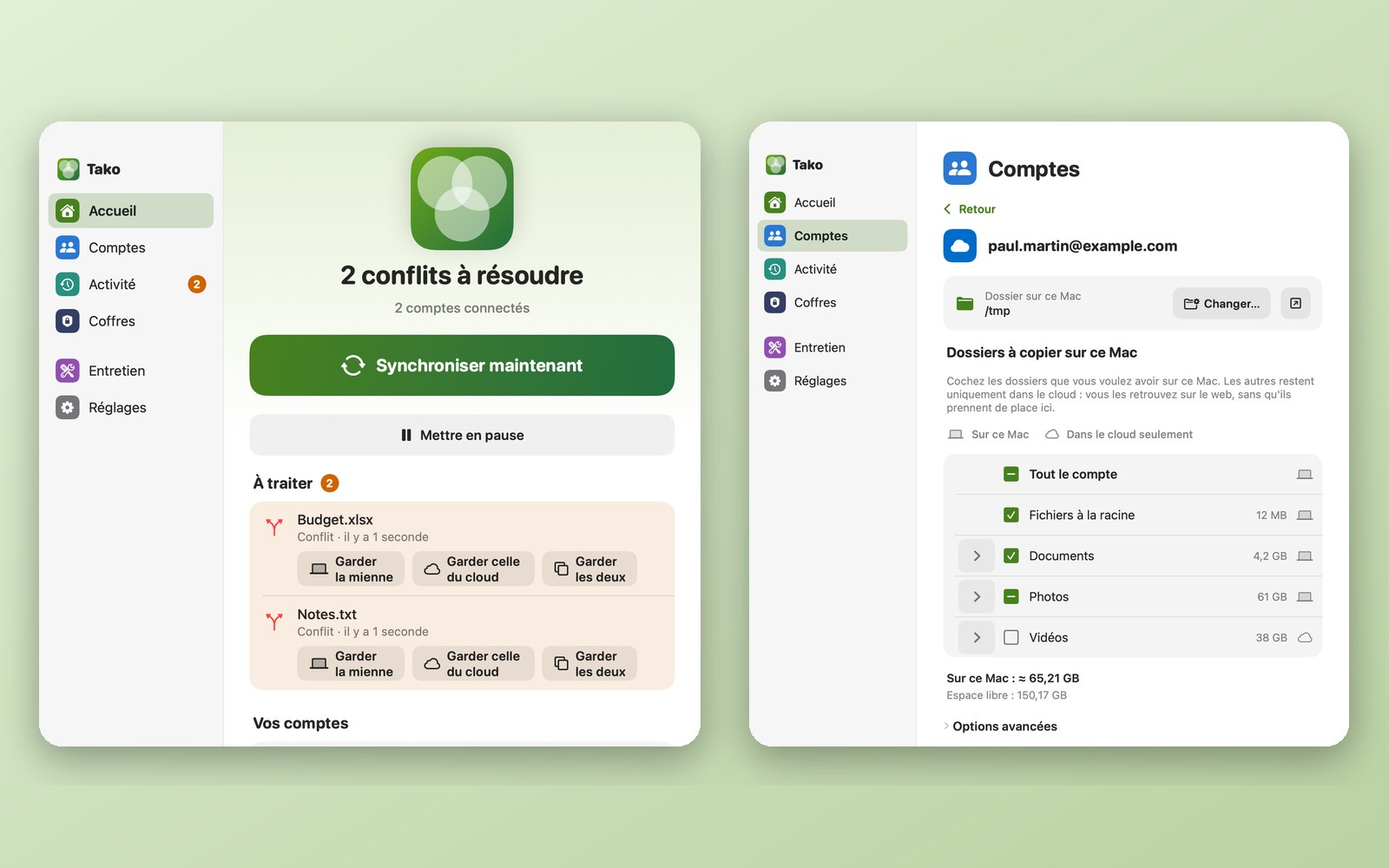
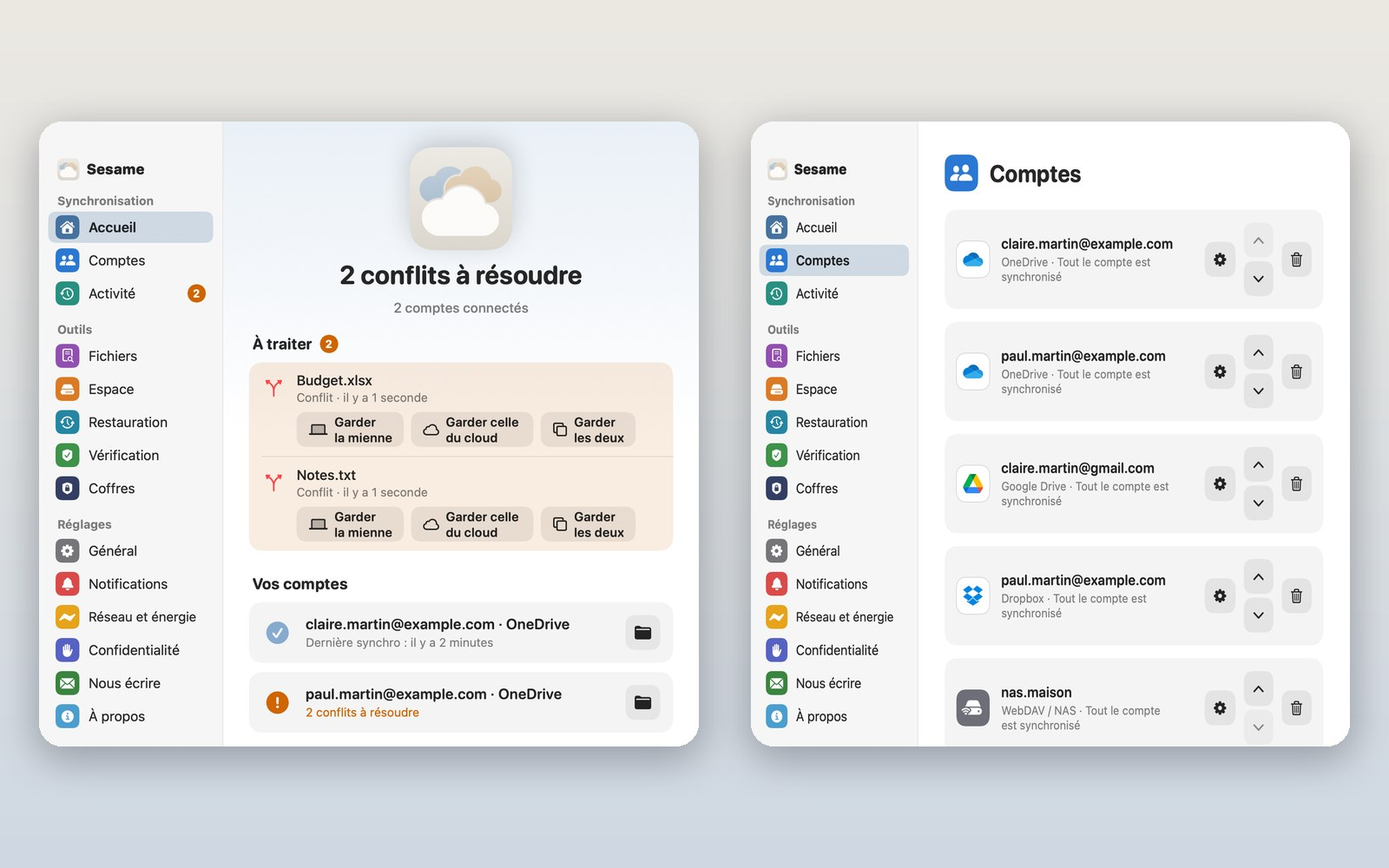
Section « Mes autres applications » (7 langues) ; Tako devient Sesame : nom, icône, image, services

diff --git a/confidentialite.html b/confidentialite.html
@@ -3,12 +3,12 @@
 <head>
 <meta charset="utf-8">
 <meta name="viewport" content="width=device-width, initial-scale=1">
-<title>Tako — Politique de confidentialité</title>
-<meta name="description" content="Tako garde vos fichiers entre vos clouds et votre ordinateur. Rien ne passe par un serveur du développeur.">
+<title>Sesame — Politique de confidentialité</title>
+<meta name="description" content="Sesame garde vos fichiers entre vos clouds et votre ordinateur. Rien ne passe par un serveur du développeur.">
 <link rel="icon" href="icon.png">
 <style>
-  :root { --bg:#f6faf2; --card:#fff; --ink:#14201a; --muted:#53635a; --moss:#2f6b0e; --line:#dde7d6; }
-  @media (prefers-color-scheme: dark) { :root { --bg:#131a16; --card:#1b251f; --ink:#eaf2e6; --muted:#a3b3a8; --line:#2b3a31; --moss:#7cc02f; } }
+  :root { --bg:#f4f6f9; --card:#fff; --ink:#16243a; --muted:#5d6b7d; --moss:#3b6a9a; --line:#dde3ea; }
+  @media (prefers-color-scheme: dark) { :root { --bg:#11161d; --card:#1a212b; --ink:#e8edf3; --muted:#93a1b2; --line:#2a3441; --moss:#8fb4da; } }
   * { box-sizing:border-box; }
   body { margin:0; background:var(--bg); color:var(--ink); font:17px/1.6 -apple-system, BlinkMacSystemFont, "Segoe UI", Roboto, sans-serif; }
   main { max-width:760px; margin:0 auto; padding:40px 18px 64px; }
@@ -29,36 +29,36 @@
 <body>
 <div class="switch"><a onclick="document.documentElement.classList.toggle('en')">FR / EN</a></div>
 <main>
-  <header><img src="icon.png" alt="Tako"><h1 lang="fr">Politique de confidentialité</h1><h1 lang="en">Privacy policy</h1></header>
-  <p class="muted" lang="fr">Application Tako · dernière mise à jour : 1er novembre 2026 · <a href="index.html">Page d'accueil</a></p>
-  <p class="muted" lang="en">Tako app · last updated: November 1, 2026 · <a href="index.html">Home page</a></p>
+  <header><img src="icon.png" alt="Sesame"><h1 lang="fr">Politique de confidentialité</h1><h1 lang="en">Privacy policy</h1></header>
+  <p class="muted" lang="fr">Application Sesame · dernière mise à jour : 1er novembre 2026 · <a href="index.html">Page d'accueil</a></p>
+  <p class="muted" lang="en">Sesame app · last updated: November 1, 2026 · <a href="index.html">Home page</a></p>
 
   <!-- ===== FRANÇAIS ===== -->
   <div lang="fr">
     <div class="box">
       <h2>En une phrase</h2>
-      <p>Tako travaille uniquement sur votre ordinateur : vos fichiers vont directement de votre cloud (Google Drive, OneDrive, Dropbox, NAS) à votre Mac, et inversement. Le développeur n'a aucun serveur, ne reçoit rien et ne voit rien de vos données.</p>
+      <p>Sesame travaille uniquement sur votre ordinateur : vos fichiers vont directement de votre cloud (Google Drive, OneDrive, Dropbox, NAS) à votre Mac, et inversement. Le développeur n'a aucun serveur, ne reçoit rien et ne voit rien de vos données.</p>
     </div>
 
-    <h2>Ce à quoi Tako accède</h2>
-    <p>Quand vous connectez un compte Google, Tako demande l'accès à Google Drive pour lister, télécharger, envoyer, modifier et supprimer des fichiers dans les dossiers que vous avez choisis de synchroniser. C'est le seul usage : Tako ne lit pas vos fichiers pour autre chose et ne les analyse pas.</p>
+    <h2>Ce à quoi Sesame accède</h2>
+    <p>Quand vous connectez un compte Google, Sesame demande l'accès à Google Drive pour lister, télécharger, envoyer, modifier et supprimer des fichiers dans les dossiers que vous avez choisis de synchroniser. C'est le seul usage : Sesame ne lit pas vos fichiers pour autre chose et ne les analyse pas.</p>
 
     <h2>Où vont vos données</h2>
     <ul>
       <li><strong>Vos fichiers</strong> circulent uniquement entre le service cloud et votre ordinateur. Ils ne passent par aucun serveur du développeur ni d'un tiers.</li>
       <li><strong>Vos autorisations de connexion</strong> (jetons) sont enregistrées sur votre ordinateur, dans un fichier protégé réservé à votre session. Les mots de passe de NAS sont rangés dans le Trousseau de macOS. Rien de tout cela n'est envoyé ailleurs.</li>
-      <li><strong>Le chiffrement</strong> : les « coffres » de Tako chiffrent vos dossiers sur votre ordinateur avant l'envoi. Personne, pas même le cloud, ne peut les lire sans votre mot de passe.</li>
+      <li><strong>Le chiffrement</strong> : les « coffres » de Sesame chiffrent vos dossiers sur votre ordinateur avant l'envoi. Personne, pas même le cloud, ne peut les lire sans votre mot de passe.</li>
     </ul>
 
     <h2>Statistiques d'utilisation (facultatives)</h2>
-    <p>Elles sont <strong>désactivées par défaut</strong> et ne sont envoyées que si vous les acceptez expressément. Dans ce cas, Tako envoie seulement des événements anonymes et fixes (par exemple « un compte a été ajouté », avec le type de service) au service de mesure respectueux de la vie privée TelemetryDeck. Jamais de nom de fichier, de dossier ou de compte, jamais d'adresse e-mail ni de chemin. Vous pouvez les couper à tout moment dans les Réglages.</p>
+    <p>Elles sont <strong>désactivées par défaut</strong> et ne sont envoyées que si vous les acceptez expressément. Dans ce cas, Sesame envoie seulement des événements anonymes et fixes (par exemple « un compte a été ajouté », avec le type de service) au service de mesure respectueux de la vie privée TelemetryDeck. Jamais de nom de fichier, de dossier ou de compte, jamais d'adresse e-mail ni de chemin. Vous pouvez les couper à tout moment dans les Réglages.</p>
 
     <h2>Données issues de Google</h2>
-    <p>L'utilisation par Tako des informations reçues des API Google respecte la <a href="https://developers.google.com/terms/api-services-user-data-policy" rel="noopener">Politique relative aux données utilisateur des services d'API Google</a>, y compris les exigences d'utilisation limitée. Tako ne vend pas ces données, ne les partage avec personne, ne s'en sert pas pour de la publicité, et aucun humain ne les consulte.</p>
+    <p>L'utilisation par Sesame des informations reçues des API Google respecte la <a href="https://developers.google.com/terms/api-services-user-data-policy" rel="noopener">Politique relative aux données utilisateur des services d'API Google</a>, y compris les exigences d'utilisation limitée. Sesame ne vend pas ces données, ne les partage avec personne, ne s'en sert pas pour de la publicité, et aucun humain ne les consulte.</p>
 
     <h2>Supprimer vos données, retirer l'accès</h2>
     <ul>
-      <li>Dans Tako, « Retirer le compte » supprime l'autorisation enregistrée sur votre ordinateur. Vos fichiers déjà copiés restent où ils sont ; vous les supprimez comme n'importe quel dossier.</li>
+      <li>Dans Sesame, « Retirer le compte » supprime l'autorisation enregistrée sur votre ordinateur. Vos fichiers déjà copiés restent où ils sont ; vous les supprimez comme n'importe quel dossier.</li>
       <li>Vous pouvez aussi révoquer l'accès à tout moment depuis votre compte Google : <a href="https://myaccount.google.com/permissions" rel="noopener">myaccount.google.com/permissions</a>.</li>
     </ul>
 
@@ -70,28 +70,28 @@
   <div lang="en">
     <div class="box">
       <h2>In one sentence</h2>
-      <p>Tako works only on your computer: your files go straight from your cloud (Google Drive, OneDrive, Dropbox, NAS) to your Mac and back. The developer runs no server, receives nothing and sees none of your data.</p>
+      <p>Sesame works only on your computer: your files go straight from your cloud (Google Drive, OneDrive, Dropbox, NAS) to your Mac and back. The developer runs no server, receives nothing and sees none of your data.</p>
     </div>
 
-    <h2>What Tako accesses</h2>
-    <p>When you connect a Google account, Tako asks for access to Google Drive to list, download, upload, modify and delete files in the folders you chose to synchronize. That is its only use: Tako does not read your files for any other purpose and does not analyze them.</p>
+    <h2>What Sesame accesses</h2>
+    <p>When you connect a Google account, Sesame asks for access to Google Drive to list, download, upload, modify and delete files in the folders you chose to synchronize. That is its only use: Sesame does not read your files for any other purpose and does not analyze them.</p>
 
     <h2>Where your data goes</h2>
     <ul>
       <li><strong>Your files</strong> travel only between the cloud service and your computer. They never pass through any server of the developer or of a third party.</li>
       <li><strong>Your sign-in authorizations</strong> (tokens) are stored on your computer, in a protected file reserved to your session. NAS passwords are kept in the macOS Keychain. None of this is sent anywhere else.</li>
-      <li><strong>Encryption</strong>: Tako's “vaults” encrypt your folders on your computer before upload. Nobody, not even the cloud, can read them without your password.</li>
+      <li><strong>Encryption</strong>: Sesame's “vaults” encrypt your folders on your computer before upload. Nobody, not even the cloud, can read them without your password.</li>
     </ul>
 
     <h2>Usage statistics (optional)</h2>
-    <p>They are <strong>off by default</strong> and are only sent if you expressly accept them. In that case Tako sends only anonymous, fixed events (for example “an account was added”, with the type of service) to the privacy-friendly analytics service TelemetryDeck. Never a file, folder or account name, never an e-mail address or a path. You can turn them off at any time in Settings.</p>
+    <p>They are <strong>off by default</strong> and are only sent if you expressly accept them. In that case Sesame sends only anonymous, fixed events (for example “an account was added”, with the type of service) to the privacy-friendly analytics service TelemetryDeck. Never a file, folder or account name, never an e-mail address or a path. You can turn them off at any time in Settings.</p>
 
     <h2>Data received from Google</h2>
-    <p>Tako's use and transfer of information received from Google APIs adheres to the <a href="https://developers.google.com/terms/api-services-user-data-policy" rel="noopener">Google API Services User Data Policy</a>, including the Limited Use requirements. Tako does not sell this data, share it with anyone, use it for advertising, and no human reads it.</p>
+    <p>Sesame's use and transfer of information received from Google APIs adheres to the <a href="https://developers.google.com/terms/api-services-user-data-policy" rel="noopener">Google API Services User Data Policy</a>, including the Limited Use requirements. Sesame does not sell this data, share it with anyone, use it for advertising, and no human reads it.</p>
 
     <h2>Deleting your data, removing access</h2>
     <ul>
-      <li>In Tako, “Remove account” deletes the authorization stored on your computer. Files already copied stay where they are; you delete them like any folder.</li>
+      <li>In Sesame, “Remove account” deletes the authorization stored on your computer. Files already copied stay where they are; you delete them like any folder.</li>
       <li>You can also revoke access at any time from your Google account: <a href="https://myaccount.google.com/permissions" rel="noopener">myaccount.google.com/permissions</a>.</li>
     </ul>
 

diff --git a/installation.html b/installation.html
@@ -3,11 +3,11 @@
 <head>
 <meta charset="utf-8">
 <meta name="viewport" content="width=device-width, initial-scale=1">
-<title>Installer Tako pas à pas</title>
+<title>Installer Sesame pas à pas</title>
 <link rel="icon" href="icon.png">
 <style>
-  :root { --bg:#f6faf2; --card:#fff; --ink:#14201a; --muted:#53635a; --moss:#3d7a12; --forest:#166534; --line:#dde7d6; }
-  @media (prefers-color-scheme: dark) { :root { --bg:#131a16; --card:#1b251f; --ink:#eaf2e6; --muted:#a3b3a8; --line:#2b3a31; --moss:#7cc02f; } }
+  :root { --bg:#f4f6f9; --card:#fff; --ink:#16243a; --muted:#5d6b7d; --moss:#3b6a9a; --forest:#284b70; --line:#dde3ea; }
+  @media (prefers-color-scheme: dark) { :root { --bg:#11161d; --card:#1a212b; --ink:#e8edf3; --muted:#93a1b2; --line:#2a3441; --moss:#8fb4da; } }
   * { box-sizing:border-box; }
   body { margin:0; background:var(--bg); color:var(--ink); font:17px/1.55 -apple-system, BlinkMacSystemFont, "Segoe UI", Roboto, sans-serif; }
   main { max-width:860px; margin:0 auto; padding:34px 18px 60px; }
@@ -15,7 +15,7 @@
   h1 { font-size:36px; margin:8px 0 4px; } h2 { font-size:24px; margin:40px 0 12px; }
   .tag { color:var(--muted); font-size:19px; margin:0 0 18px; }
   .btns { display:flex; flex-wrap:wrap; gap:12px; margin:18px 0; }
-  .btn { display:inline-flex; align-items:center; gap:8px; padding:12px 22px; border-radius:999px; font-weight:700; text-decoration:none; color:#fff; background:linear-gradient(135deg,#3d7a12,#166534); }
+  .btn { display:inline-flex; align-items:center; gap:8px; padding:12px 22px; border-radius:999px; font-weight:700; text-decoration:none; color:#fff; background:linear-gradient(135deg,#3b6a9a,#284b70); }
   .btn.cafe { background:#8a5522; } .btn.plain { background:var(--card); color:var(--ink); border:1px solid var(--line); }
   .grid { display:grid; grid-template-columns:repeat(auto-fit,minmax(240px,1fr)); gap:14px; }
   .card { background:var(--card); border:1px solid var(--line); border-radius:16px; padding:18px; } .card h3 { margin:0 0 6px; font-size:18px; } .card p { margin:0; color:var(--muted); font-size:15px; }
@@ -31,20 +31,20 @@
 <body>
 <div class="switch"><a onclick="document.documentElement.classList.toggle('en')">FR / EN</a></div>
 <main>
-  <a class="retour" href="index.html">← Tako</a>
-  <h1 class="lang-fr">Installer Tako pas à pas</h1><h1 class="lang-en">Install Tako step by step</h1>
+  <a class="retour" href="index.html">← Sesame</a>
+  <h1 class="lang-fr">Installer Sesame pas à pas</h1><h1 class="lang-en">Install Sesame step by step</h1>
   <p class="tag lang-fr">Six étapes, environ cinq minutes. Il faut un Mac Apple Silicon (M1 ou plus récent) sous macOS 13 Ventura ou plus récent.</p>
   <p class="tag lang-en">Six steps, about five minutes. You need an Apple Silicon Mac (M1 or later) running macOS 13 Ventura or later.</p>
-  <div class="btns"><a class="btn" href="https://github.com/xavier38/tako/releases/latest/download/Tako.zip">⬇ <span class="lang-fr">Télécharger Tako.zip</span><span class="lang-en">Download Tako.zip</span></a></div>
+  <div class="btns"><a class="btn" href="https://github.com/xavier38/sesame/releases/latest/download/Sesame.zip">⬇ <span class="lang-fr">Télécharger Sesame.zip</span><span class="lang-en">Download Sesame.zip</span></a></div>
   <ol class="etapes">
-    <li class="lang-fr"><b>Ouvrez le fichier téléchargé</b>Double-cliquez sur <code>Tako.zip</code> dans le dossier Téléchargements : l'app <code>Tako</code> apparaît.</li>
-    <li class="lang-en"><b>Open the downloaded file</b>Double-click <code>Tako.zip</code> in your Downloads folder: the <code>Tako</code> app appears.</li>
-    <li class="lang-fr"><b>Mettez-la dans Applications</b>Glissez <code>Tako</code> dans le dossier <b style="display:inline">Applications</b> (colonne de gauche du Finder).</li>
-    <li class="lang-en"><b>Move it to Applications</b>Drag <code>Tako</code> into the <b style="display:inline">Applications</b> folder (left column of the Finder).</li>
-    <li class="lang-fr"><b>Ouvrez-la une première fois</b>Faites un <b style="display:inline">clic droit</b> (ou Ctrl + clic) sur Tako, puis <b style="display:inline">Ouvrir</b>, puis <b style="display:inline">Ouvrir</b> de nouveau. macOS demande cette confirmation parce que Tako ne vient pas de l'App Store. Si le bouton « Ouvrir » n'apparaît pas : Réglages Système, Confidentialité et sécurité, tout en bas, <b style="display:inline">Ouvrir quand même</b>.</li>
-    <li class="lang-en"><b>Open it the first time</b><b style="display:inline">Right-click</b> (or Ctrl-click) Tako, then <b style="display:inline">Open</b>, then <b style="display:inline">Open</b> again. macOS asks for this because Tako does not come from the App Store. If there is no “Open” button: System Settings, Privacy &amp; Security, at the bottom, <b style="display:inline">Open Anyway</b>.</li>
-    <li class="lang-fr"><b>Trouvez l'icône</b>Une petite icône à trois cercles apparaît en haut de l'écran, dans la barre de menus. Cliquez dessus, puis <b style="display:inline">Ouvrir Tako</b>.</li>
-    <li class="lang-en"><b>Find the icon</b>A small three-circle icon appears at the top of the screen, in the menu bar. Click it, then <b style="display:inline">Open Tako</b>.</li>
+    <li class="lang-fr"><b>Ouvrez le fichier téléchargé</b>Double-cliquez sur <code>Sesame.zip</code> dans le dossier Téléchargements : l'app <code>Sesame</code> apparaît.</li>
+    <li class="lang-en"><b>Open the downloaded file</b>Double-click <code>Sesame.zip</code> in your Downloads folder: the <code>Sesame</code> app appears.</li>
+    <li class="lang-fr"><b>Mettez-la dans Applications</b>Glissez <code>Sesame</code> dans le dossier <b style="display:inline">Applications</b> (colonne de gauche du Finder).</li>
+    <li class="lang-en"><b>Move it to Applications</b>Drag <code>Sesame</code> into the <b style="display:inline">Applications</b> folder (left column of the Finder).</li>
+    <li class="lang-fr"><b>Ouvrez-la une première fois</b>Faites un <b style="display:inline">clic droit</b> (ou Ctrl + clic) sur Sesame, puis <b style="display:inline">Ouvrir</b>, puis <b style="display:inline">Ouvrir</b> de nouveau. macOS demande cette confirmation parce que Sesame ne vient pas de l'App Store. Si le bouton « Ouvrir » n'apparaît pas : Réglages Système, Confidentialité et sécurité, tout en bas, <b style="display:inline">Ouvrir quand même</b>.</li>
+    <li class="lang-en"><b>Open it the first time</b><b style="display:inline">Right-click</b> (or Ctrl-click) Sesame, then <b style="display:inline">Open</b>, then <b style="display:inline">Open</b> again. macOS asks for this because Sesame does not come from the App Store. If there is no “Open” button: System Settings, Privacy &amp; Security, at the bottom, <b style="display:inline">Open Anyway</b>.</li>
+    <li class="lang-fr"><b>Trouvez l'icône</b>Une petite icône à trois cercles apparaît en haut de l'écran, dans la barre de menus. Cliquez dessus, puis <b style="display:inline">Ouvrir Sesame</b>.</li>
+    <li class="lang-en"><b>Find the icon</b>A small three-circle icon appears at the top of the screen, in the menu bar. Click it, then <b style="display:inline">Open Sesame</b>.</li>
     <li class="lang-fr"><b>Ajoutez votre premier compte</b>Gros bouton <b style="display:inline">Ajouter mon premier compte</b>, puis OneDrive : connectez-vous dans le navigateur. Choisissez ensuite où mettre vos fichiers sur le Mac et quels dossiers copier, puis <b style="display:inline">Commencer la synchronisation</b>. Rien n'est téléchargé avant ce bouton.</li>
     <li class="lang-en"><b>Add your first account</b>Big button <b style="display:inline">Add my first account</b>, then OneDrive: sign in in the browser. Then choose where to keep your files on the Mac and which folders to copy, then <b style="display:inline">Start syncing</b>. Nothing is downloaded before that button.</li>
     <li class="lang-fr"><b>Facultatif : démarrer avec le Mac</b>Rubrique <b style="display:inline">Réglages</b>, puis <b style="display:inline">Lancer au démarrage</b>.</li>
@@ -52,7 +52,7 @@
   </ol>
   <p class="note lang-fr">Dropbox et Google Drive demandent une préparation de quelques minutes (créer une « application » chez eux et copier sa clé) : l'aide est affichée dans l'écran « Ajouter un compte ». OneDrive, WebDAV et SFTP fonctionnent tout de suite.</p>
   <p class="note lang-en">Dropbox and Google Drive need a few minutes of setup (creating an “app” with them and copying its key): help is shown on the “Add an account” screen. OneDrive, WebDAV and SFTP work right away.</p>
-  <footer><p class="lang-fr">Un souci ? Dites-le-moi. Et si Tako vous plaît, <a href="cafe.html">offrez-moi un café</a>.</p><p class="lang-en">A problem? Tell me. And if you like Tako, <a href="cafe.html">buy me a coffee</a>.</p></footer>
+  <footer><p class="lang-fr">Un souci ? Dites-le-moi. Et si Sesame vous plaît, <a href="cafe.html">offrez-moi un café</a>.</p><p class="lang-en">A problem? Tell me. And if you like Sesame, <a href="cafe.html">buy me a coffee</a>.</p></footer>
 </main>
 <script>if ((navigator.language || "fr").toLowerCase().indexOf("fr") !== 0) document.documentElement.classList.add("en");</script>
 </body>

diff --git a/index.html b/index.html
@@ -3,14 +3,14 @@
 <head>
 <meta charset="utf-8">
 <meta name="viewport" content="width=device-width, initial-scale=1">
-<title>Tako — tous vos clouds dans une seule application</title>
+<title>Sesame — tous vos clouds dans une seule application</title>
 <link rel="icon" href="icon.png">
-<meta name="description" content="Tako garde vos comptes OneDrive, Google Drive, Dropbox et vos NAS synchronisés avec votre Mac. Vous choisissez ce qui est copié et ce qui reste dans le cloud.">
-<meta property="og:title" content="Tako — tous vos clouds dans une seule application">
-<meta property="og:image" content="https://xavier38.github.io/tako/promo.jpg">
+<meta name="description" content="Sesame garde vos comptes OneDrive, Google Drive, Dropbox, Box et vos NAS synchronisés avec votre Mac. Vous choisissez ce qui est copié et ce qui reste dans le cloud.">
+<meta property="og:title" content="Sesame — tous vos clouds dans une seule application">
+<meta property="og:image" content="https://xavier38.github.io/sesame/promo.jpg">
 <style>
-  :root { --bg:#f6faf2; --card:#fff; --ink:#14201a; --muted:#53635a; --moss:#3d7a12; --forest:#166534; --line:#dde7d6; }
-  @media (prefers-color-scheme: dark) { :root { --bg:#131a16; --card:#1b251f; --ink:#eaf2e6; --muted:#a3b3a8; --line:#2b3a31; --moss:#7cc02f; } }
+  :root { --bg:#f4f6f9; --card:#fff; --ink:#16243a; --muted:#5d6b7d; --moss:#3b6a9a; --forest:#284b70; --line:#dde3ea; }
+  @media (prefers-color-scheme: dark) { :root { --bg:#11161d; --card:#1a212b; --ink:#e8edf3; --muted:#93a1b2; --line:#2a3441; --moss:#8fb4da; } }
   * { box-sizing:border-box; }
   body { margin:0; background:var(--bg); color:var(--ink); font:17px/1.55 -apple-system, BlinkMacSystemFont, "Segoe UI", Roboto, sans-serif; }
   main { max-width:860px; margin:0 auto; padding:34px 18px 60px; }
@@ -18,7 +18,7 @@
   h1 { font-size:36px; margin:8px 0 4px; } h2 { font-size:24px; margin:40px 0 12px; }
   .tag { color:var(--muted); font-size:19px; margin:0 0 18px; }
   .btns { display:flex; flex-wrap:wrap; gap:12px; margin:18px 0; }
-  .btn { display:inline-flex; align-items:center; gap:8px; padding:12px 22px; border-radius:999px; font-weight:700; text-decoration:none; color:#fff; background:linear-gradient(135deg,#3d7a12,#166534); }
+  .btn { display:inline-flex; align-items:center; gap:8px; padding:12px 22px; border-radius:999px; font-weight:700; text-decoration:none; color:#fff; background:linear-gradient(135deg,#3b6a9a,#284b70); }
   .btn.cafe { background:#8a5522; } .btn.plain { background:var(--card); color:var(--ink); border:1px solid var(--line); }
   .grid { display:grid; grid-template-columns:repeat(auto-fit,minmax(240px,1fr)); gap:14px; }
   .card { background:var(--card); border:1px solid var(--line); border-radius:16px; padding:18px; } .card h3 { margin:0 0 6px; font-size:18px; } .card p { margin:0; color:var(--muted); font-size:15px; }
@@ -35,23 +35,23 @@
 <div class="switch"><a onclick="document.documentElement.classList.toggle('en')">FR / EN</a></div>
 <main>
   <div style="display:flex;gap:18px;align-items:center;flex-wrap:wrap">
-    <img src="icon.png" alt="Tako" width="96" height="96" style="border-radius:22px;box-shadow:0 8px 22px rgba(0,0,0,.2)">
-    <div><h1>Tako</h1>
+    <img src="icon.png" alt="Sesame" width="96" height="96" style="border-radius:22px;box-shadow:0 8px 22px rgba(0,0,0,.2)">
+    <div><h1>Sesame</h1>
       <p class="tag lang-fr">Tous vos clouds dans une seule application.</p><p class="tag lang-en">All your clouds in one app.</p></div>
   </div>
   <div class="btns">
-    <a class="btn" href="https://github.com/xavier38/tako/releases/latest/download/Tako.zip">⬇ <span class="lang-fr">Télécharger Tako</span><span class="lang-en">Download Tako</span></a>
+    <a class="btn" href="https://github.com/xavier38/sesame/releases/latest/download/Sesame.zip">⬇ <span class="lang-fr">Télécharger Sesame</span><span class="lang-en">Download Sesame</span></a>
     <a class="btn plain" href="installation.html"><span class="lang-fr">Installer pas à pas →</span><span class="lang-en">Step-by-step install →</span></a>
     <a class="btn cafe" href="cafe.html">☕ <span class="lang-fr">Offrez-moi un café</span><span class="lang-en">Buy me a coffee</span></a>
   </div>
-  <p class="tag lang-fr" style="font-size:15px">Gratuit. macOS 13 Ventura ou plus récent, Mac Apple Silicon. Linux (Debian/Ubuntu) et Windows ensuite.</p>
-  <p class="tag lang-en" style="font-size:15px">Free. macOS 13 Ventura or later, Apple Silicon Mac. Linux (Debian/Ubuntu) and Windows next.</p>
-  <img class="promo" src="promo.jpg" alt="Tako : l'accueil avec les conflits à résoudre, et le choix des dossiers à copier sur le Mac">
+  <p class="tag lang-fr" style="font-size:15px">Anciennement Tako : même app, nouveau nom. Gratuit. macOS 13 Ventura ou plus récent, Mac Apple Silicon. Linux (Debian/Ubuntu) et Windows ensuite.</p>
+  <p class="tag lang-en" style="font-size:15px">Formerly Tako: same app, new name. Free. macOS 13 Ventura or later, Apple Silicon Mac. Linux (Debian/Ubuntu) and Windows next.</p>
+  <img class="promo" src="promo.jpg" alt="Sesame : l'accueil avec les conflits à résoudre, et le choix des dossiers à copier sur le Mac">
 
-  <h2 class="lang-fr">Ce que fait Tako</h2><h2 class="lang-en">What Tako does</h2>
+  <h2 class="lang-fr">Ce que fait Sesame</h2><h2 class="lang-en">What Sesame does</h2>
   <div class="grid">
     <div class="card"><h3 class="lang-fr">Plusieurs comptes</h3><h3 class="lang-en">Several accounts</h3>
-      <p class="lang-fr">OneDrive, Google Drive, Dropbox, et vos NAS en WebDAV ou SFTP. Chacun a son dossier sur le Mac.</p><p class="lang-en">OneDrive, Google Drive, Dropbox, and your NAS over WebDAV or SFTP. Each has its own folder on the Mac.</p></div>
+      <p class="lang-fr">OneDrive (personnel et professionnel), Google Drive, Dropbox, Box, kDrive, Koofr, Nextcloud, S3, et vos NAS en WebDAV ou SFTP. Chacun a son dossier sur le Mac, et plusieurs comptes du même service fonctionnent ensemble.</p><p class="lang-en">OneDrive (personal and work), Google Drive, Dropbox, Box, kDrive, Koofr, Nextcloud, S3, and your NAS over WebDAV or SFTP. Each has its own folder on the Mac, and several accounts of the same service work side by side.</p></div>
     <div class="card"><h3 class="lang-fr">Sur le Mac ou dans le cloud</h3><h3 class="lang-en">On the Mac or in the cloud</h3>
       <p class="lang-fr">Cochez les dossiers à copier. Les autres restent dans le cloud, sans prendre de place.</p><p class="lang-en">Tick the folders to copy. The others stay in the cloud and take no room.</p></div>
     <div class="card"><h3 class="lang-fr">Rien ne se perd</h3><h3 class="lang-en">Nothing gets lost</h3>
@@ -63,11 +63,13 @@
     <div class="card"><h3 class="lang-fr">Simple</h3><h3 class="lang-en">Simple</h3>
       <p class="lang-fr">Six rubriques, de gros boutons, 7 langues. Les conflits se règlent depuis l'accueil.</p><p class="lang-en">Six sections, big buttons, 7 languages. Conflicts are settled from the home screen.</p></div>
   </div>
+  <section id="autres-apps" data-current="sesame"></section>
   <footer>
-    <p class="lang-fr">Tako est gratuit et le restera. S'il vous rend service, <a href="cafe.html">offrez-moi un café</a>.</p>
-    <p class="lang-en">Tako is free and will stay free. If it helps you, <a href="cafe.html">buy me a coffee</a>.</p>
+    <p class="lang-fr">Sesame est gratuit et le restera. S'il vous rend service, <a href="cafe.html">offrez-moi un café</a>.</p>
+    <p class="lang-en">Sesame is free and will stay free. If it helps you, <a href="cafe.html">buy me a coffee</a>.</p>
   </footer>
 </main>
+<script src="autres-apps.js"></script>
 <script>if ((navigator.language || "fr").toLowerCase().indexOf("fr") !== 0) document.documentElement.classList.add("en");</script>
 </body>
 </html>

diff --git a/autres-apps.js b/autres-apps.js
@@ -1,0 +1,65 @@
+/* « Mes autres applications » : la même section sur les sites de Moka, Canif et Sesame.
+   <section id="autres-apps" data-current="moka"></section> puis <script src="autres-apps.js"></script>.
+   La langue suit celle de la page (attribut lang, ou la classe « en » des pages français/anglais) et change avec elle. */
+(function () {
+  var APPS = [
+    { id: "moka", name: "Moka", site: "https://xavier38.github.io/moka/", repo: "https://github.com/xavier38/moka",
+      icon: "https://xavier38.github.io/moka/icon.png",
+      tag: { fr: "Un petit café pour votre Mac : il reste éveillé en un clic.", en: "A little coffee for your Mac: keep it awake in one click.",
+             es: "Un cafecito para tu Mac: mantenlo despierto con un clic.", pt: "Um cafezinho para o seu Mac: mantenha-o acordado com um clique.",
+             nl: "Een kopje koffie voor je Mac: houd hem wakker met één klik.", de: "Ein kleiner Kaffee für deinen Mac: wach mit einem Klick.",
+             it: "Un caffè per il tuo Mac: tienilo sveglio con un clic." } },
+    { id: "canif", name: "Canif", site: "https://xavier38.github.io/canif/", repo: "https://github.com/xavier38/canif",
+      icon: "https://xavier38.github.io/canif/icon.png",
+      tag: { fr: "Le couteau suisse de votre Mac : 11 outils dans une seule app.", en: "Your Mac's Swiss army knife: 11 tools in one app.",
+             es: "La navaja suiza de tu Mac: 11 herramientas en una sola app.", pt: "O canivete suíço do seu Mac: 11 ferramentas numa só app.",
+             nl: "Het Zwitserse zakmes van je Mac: 11 tools in één app.", de: "Das Schweizer Taschenmesser für deinen Mac: 11 Werkzeuge in einer App.",
+             it: "Il coltellino svizzero del tuo Mac: 11 strumenti in un'unica app." } },
+    { id: "sesame", name: "Sesame", site: "https://xavier38.github.io/sesame/", repo: "https://github.com/xavier38/sesame",
+      icon: "https://xavier38.github.io/sesame/icon.png",
+      tag: { fr: "Tous vos clouds dans une seule application.", en: "All your clouds in one app.",
+             es: "Todas tus nubes en una sola app.", pt: "Todas as suas nuvens numa só app.",
+             nl: "Al je clouds in één app.", de: "Alle deine Clouds in einer App.",
+             it: "Tutti i tuoi cloud in un'unica app." } }
+  ];
+  var T = {
+    fr: { title: "Mes autres applications", lead: "Gratuites elles aussi, pour Mac.", site: "Découvrir", repo: "Sur GitHub" },
+    en: { title: "My other apps", lead: "Free as well, for Mac.", site: "Discover", repo: "On GitHub" },
+    es: { title: "Mis otras apps", lead: "También gratis, para Mac.", site: "Descubrir", repo: "En GitHub" },
+    pt: { title: "As minhas outras apps", lead: "Também gratuitas, para Mac.", site: "Descobrir", repo: "No GitHub" },
+    nl: { title: "Mijn andere apps", lead: "Ook gratis, voor de Mac.", site: "Ontdekken", repo: "Op GitHub" },
+    de: { title: "Meine anderen Apps", lead: "Ebenfalls kostenlos, für den Mac.", site: "Entdecken", repo: "Auf GitHub" },
+    it: { title: "Le mie altre app", lead: "Anche queste gratuite, per Mac.", site: "Scopri", repo: "Su GitHub" }
+  };
+  var root = document.getElementById("autres-apps");
+  if (!root) return;
+  var html = document.documentElement;
+
+  function lang() {
+    if (html.classList.contains("en")) return "en";  // pages français/anglais : bouton FR / EN
+    var l = (html.lang || "fr").slice(0, 2).toLowerCase();
+    return T[l] ? l : "en";
+  }
+
+  var style = document.createElement("style");
+  style.textContent =
+    "#autres-apps{margin:44px 0 8px}#autres-apps h2{margin:0 0 4px}#autres-apps .aa-lead{margin:0 0 14px;opacity:.75}" +
+    "#autres-apps .aa-grid{display:grid;grid-template-columns:repeat(auto-fit,minmax(260px,1fr));gap:14px}" +
+    "#autres-apps .aa-card{display:flex;gap:14px;align-items:center;padding:16px;border-radius:16px;border:1px solid rgba(128,128,128,.28);background:rgba(128,128,128,.06)}" +
+    "#autres-apps img{width:64px;height:64px;border-radius:15px;flex:none;box-shadow:0 4px 12px rgba(0,0,0,.18)}" +
+    "#autres-apps h3{margin:0 0 2px;font-size:18px}#autres-apps p.aa-tag{margin:0 0 8px;font-size:14.5px;opacity:.8}" +
+    "#autres-apps .aa-links{display:flex;gap:12px;flex-wrap:wrap;font-size:14.5px;font-weight:600}#autres-apps .aa-links a{color:inherit}";
+  document.head.appendChild(style);
+
+  function render() {
+    var l = lang(), t = T[l], current = root.getAttribute("data-current");
+    var cards = APPS.filter(function (a) { return a.id !== current; }).map(function (a) {
+      return '<div class="aa-card"><a href="' + a.site + '"><img src="' + a.icon + '" alt="' + a.name + '"></a><div>' +
+        '<h3>' + a.name + '</h3><p class="aa-tag">' + a.tag[l] + '</p>' +
+        '<div class="aa-links"><a href="' + a.site + '">' + t.site + ' →</a><a href="' + a.repo + '">' + t.repo + '</a></div></div></div>';
+    }).join("");
+    root.innerHTML = "<h2>" + t.title + '</h2><p class="aa-lead">' + t.lead + '</p><div class="aa-grid">' + cards + "</div>";
+  }
+  render();
+  new MutationObserver(render).observe(html, { attributes: true, attributeFilter: ["lang", "class"] });
+})();

diff --git a/cafe.html b/cafe.html
@@ -3,14 +3,14 @@
 <head>
 <meta charset="utf-8">
 <meta name="viewport" content="width=device-width, initial-scale=1">
-<title>Un café pour Tako</title>
+<title>Un café pour Sesame</title>
 <!-- Point d'entrée du bouton « Offrez-moi un café » : pour changer de service, modifier l'adresse ci-dessous. -->
 <meta http-equiv="refresh" content="0; url=https://paypal.me/XavierROUBAUD">
 <link rel="icon" href="icon.png">
 <style>
-  body { margin:0; min-height:100vh; display:grid; place-items:center; font:18px/1.5 -apple-system, BlinkMacSystemFont, sans-serif; background:#f6faf2; color:#14201a; text-align:center; padding:16px; }
-  @media (prefers-color-scheme: dark) { body { background:#16201a; color:#eaf2e6; } a { color:#9bd05a; } }
-  a { color:#2f6b0e; font-weight:700; }
+  body { margin:0; min-height:100vh; display:grid; place-items:center; font:18px/1.5 -apple-system, BlinkMacSystemFont, sans-serif; background:#f4f6f9; color:#16243a; text-align:center; padding:16px; }
+  @media (prefers-color-scheme: dark) { body { background:#1a212b; color:#e8edf3; } a { color:#9bd05a; } }
+  a { color:#3b6a9a; font-weight:700; }
 </style>
 <script>location.replace("https://paypal.me/XavierROUBAUD");</script>
 </head>
